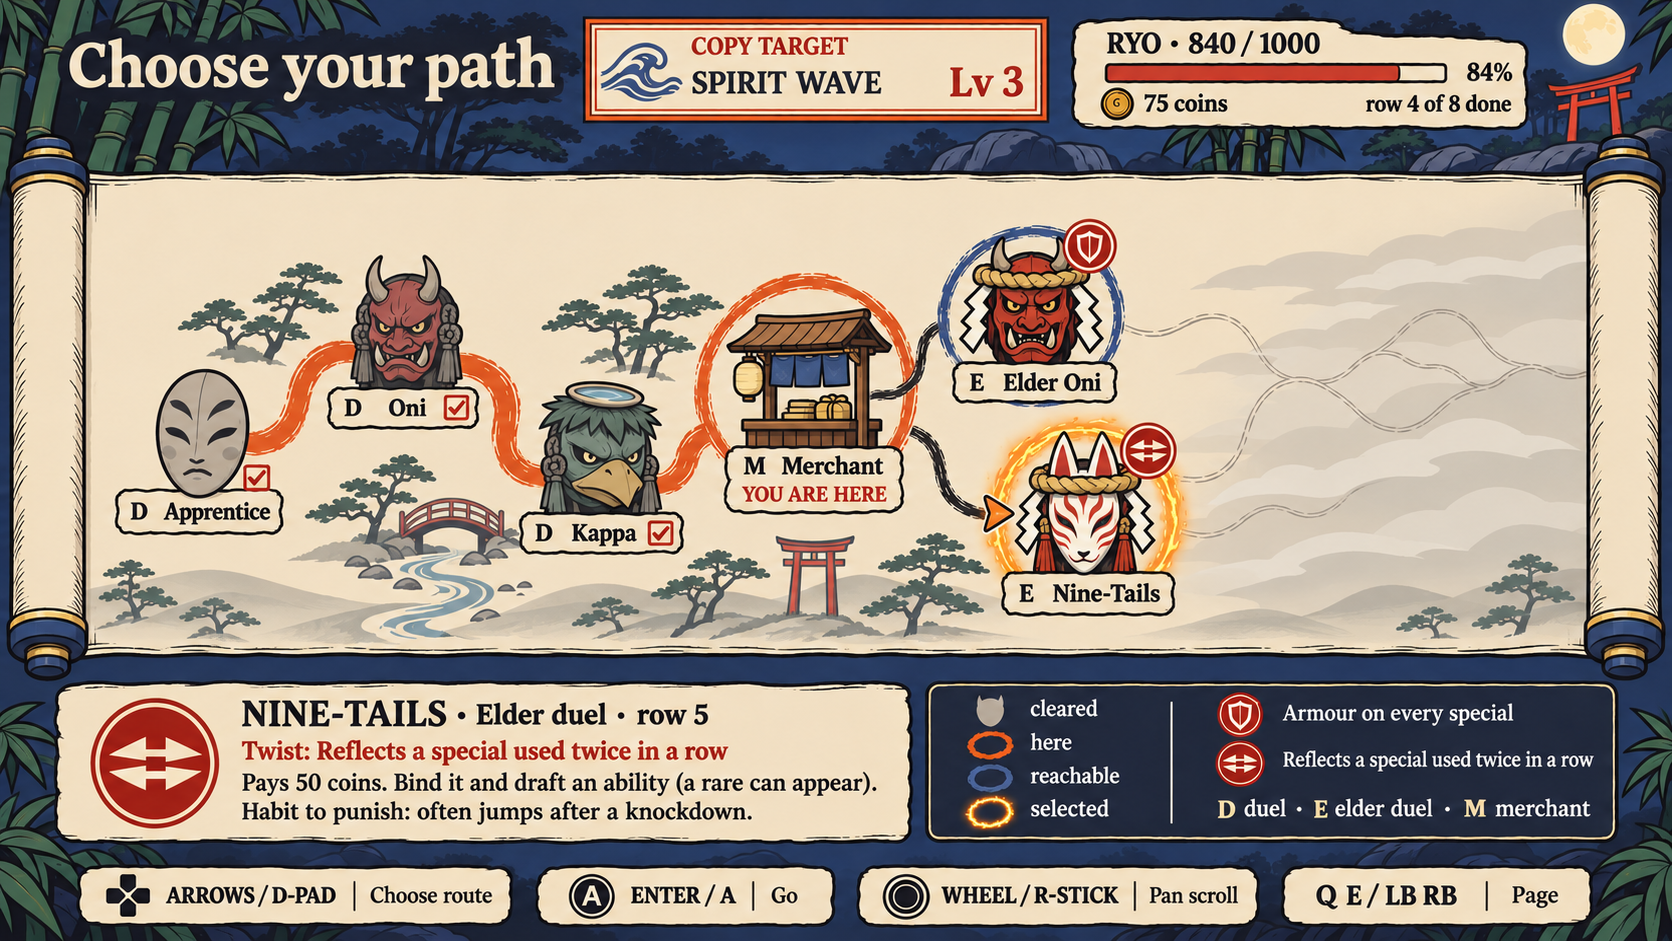
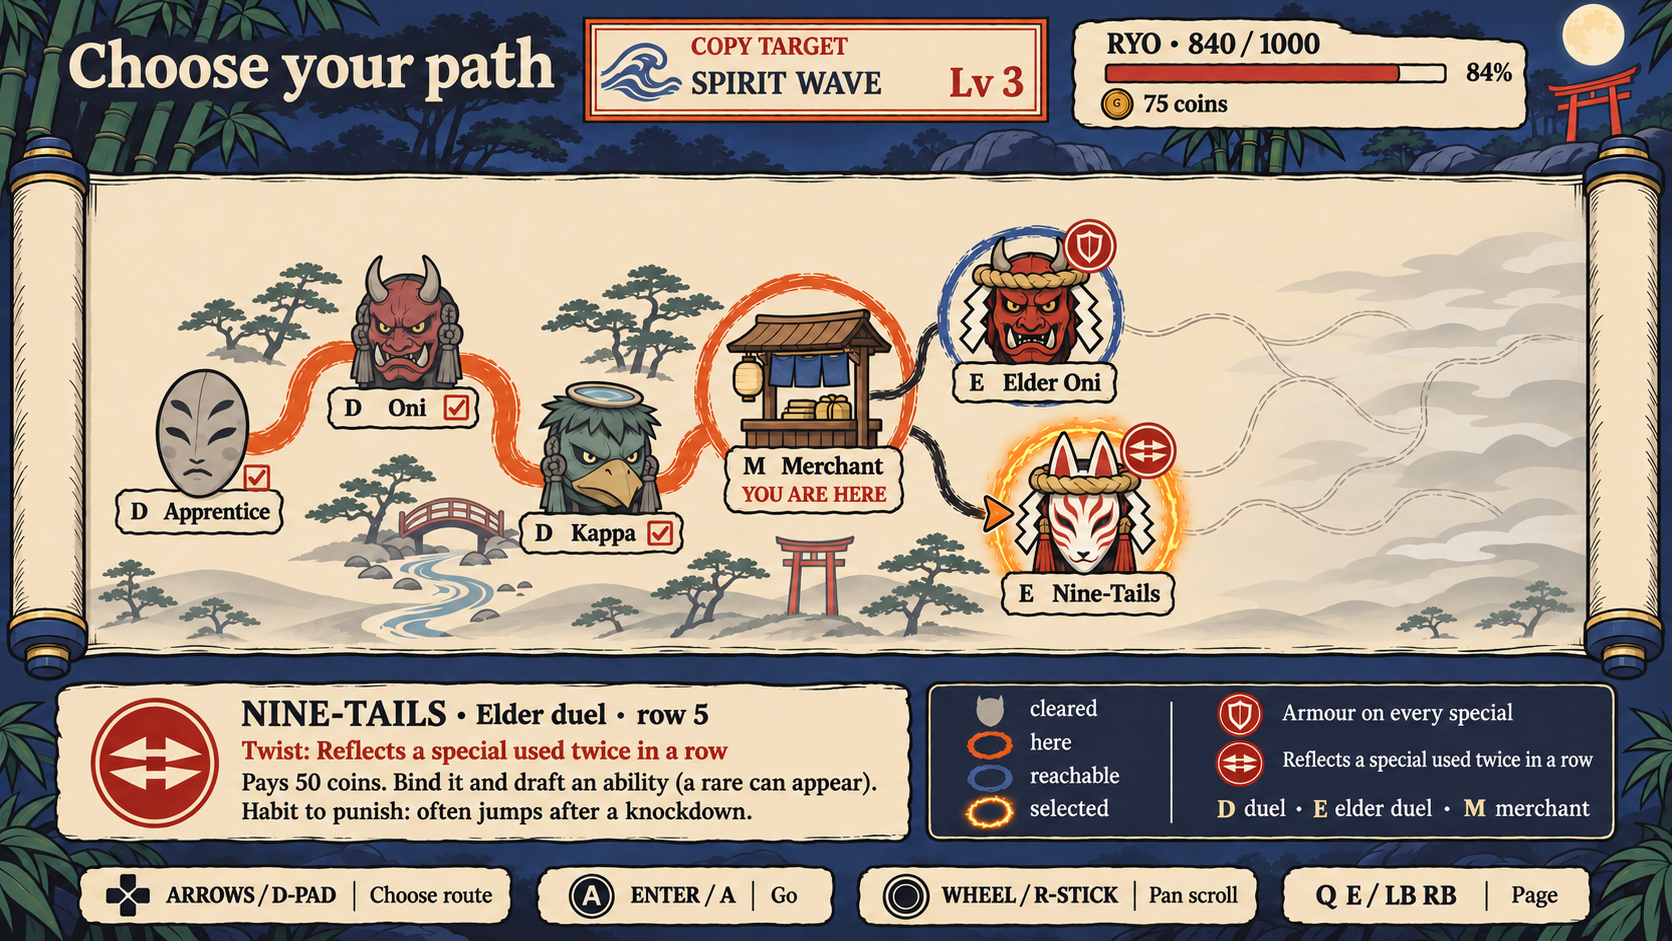
YOK-109-map-astra-v2: take 3 (no row count in Ryo's panel; take 1's trailing mist is the build reference)

diff --git a/docs/design/screens/astra-brief-map-v2.md b/docs/design/screens/astra-brief-map-v2.md
@@ -120,4 +120,46 @@ One take, `gpt-6-astra` via `codex exec`, with take 1, the title scroll and the 
 
 | ID | Output | Verdict | Notes |
 |---|---|---|---|
-| MAP2 take 2 | [map-v2-take2.png](astra/map-v2-take2.png), copied to [map.png](map.png) | Accept as the map target | No row headings. The heading is in the kit's bold serif. Elder Oni is the row-2 Oni mask plus the rope, streamers and shield seal; Nine-Tails is the title fox mask plus the same rope and the reflect seal. A wide mist bank (x70–97) covers the routes ahead, with sketched lines branching and crossing under it and nothing else in it. Miss: the sketched lines only suggest branching and do not show the real 2→2→2→1 shape exactly; the build draws them from the route data (AM19), so this does not reach the game. Cleared masks still keep their colour, marked by the red tick. |
+| MAP2 take 2 | [map-v2-take2.png](astra/map-v2-take2.png) | Superseded by take 3 (the designer preferred take 1's mist) | No row headings. The heading is in the kit's bold serif. Elder Oni is the row-2 Oni mask plus the rope, streamers and shield seal; Nine-Tails is the title fox mask plus the same rope and the reflect seal. A wide mist bank (x70–97) covers the routes ahead, with sketched lines branching and crossing under it and nothing else in it. Miss: the sketched lines only suggest branching and do not show the real 2→2→2→1 shape exactly; the build draws them from the route data (AM19), so this does not reach the game. Cleared masks still keep their colour, marked by the red tick. |
+
+## Take 3 (2026-11-09)
+
+The designer's review of take 2: keep take 1's trailing mist (wisps at the right edge, not a wide bank), and drop the row count ("row 4 of 8 done") from Ryo's status panel. Everything else as take 2.
+
+### Exact Astra prompt (MAP2, take 3)
+
+```text
+Stylised toon-shaded game art, flat cel colour in 2-3 tone steps, clean confident ink-brush outline of even weight, muted ukiyo-e colour palette, matte surfaces, soft even lighting with no cast shadows, no photographic or painterly texture, no gloss, no baked ambient occlusion, simple readable shapes. Use case: ui-mockup. One full-bleed 1672 x 941 landscape screen concept (nominal 16:9), opaque PNG. Match the attached title screen's art hand and the existing paper-talisman screen kit: bold serif body text, brush headings only, flat matte paper, restrained ink outlines. Palette: indigo #2D3A5E, ink #1D1B21, persimmon #D8632C, rice paper #F1E8D4, pine #34483B, fur white #FBF6EC, foxfire #F2A23A, shrine red #B5332B, brass #B08A48, wood dark #4A3425, wood mid #7A5535. Positions are percentages of the full canvas. Exact English lettering is required; no filler text. Tanuki is NEVER drawn, including portrait, silhouette, animal, mask or disguise. Kitsune appears only as her white-and-red fox mask; no face. Avoid photorealism, PBR, gloss, painterly noise, grain, neon, cast shadows, particles, extra UI, real kanji, watermark, logo, signature, franchise or artist references.
+
+Screen: the run map of a roguelite, mid-run. Night bamboo valley backdrop (pale moon, red torii, bamboo) shows only above and below the scroll.
+
+TOP BAR y3-13: top-left heading "Choose your path" set large in the same bold serif typeface as the body text, rice-paper colour, on the night backdrop; not brush script, not handwritten. Top-centre rice-paper chip with double persimmon border and a small blue wave icon: "COPY TARGET" above "SPIRIT WAVE", "Lv 3" on the right. Top-right rice-paper status: "RYO · 840 / 1000", red health bar 84% full, "75 coins". Nothing else in that panel: no row count, no progress text.
+
+THE SCROLL y15-80, x1-99: one long horizontal handscroll drawn exactly like the attached rolled scroll: plain cream rice paper with a thin black ink outline and faint edge lines, a round wooden roller standing at each end (left roller x1-3, right roller x97-99) with indigo end caps and thin brass rings, paper wound around them. No silk border, no green mount, no seams. Across the bottom third of the paper, very soft grey sumi-wash hills and a few sketched pines, low contrast. No row labels or headings anywhere on the paper.
+
+NODES are illustrated objects sitting on the paper, each about 9% wide, every mask the same size, with a small torn rice-paper name tag under it (bold serif name, tiny type letter at the tag's left). Heights are staggered, never in a line:
+- Row 1 x8 y58: plain unpainted pale-wood practice mask with simple ink brows; tag "D  Apprentice". Cleared.
+- Row 2 x21 y36: red horned Oni mask exactly as on the title screen; tag "D  Oni". Cleared.
+- Row 3 x34 y62: green beaked Kappa mask with the water dish on its head, as on the title screen; tag "D  Kappa". Cleared.
+- Row 4 x47 y40: small wooden market stand: plank counter on two posts, little shingled roof, short indigo noren cloth, a paper lantern hanging from the roof corner, a few wrapped goods on the counter; tag "M  Merchant" and under it persimmon "YOU ARE HERE". Ringed by a loose persimmon brush circle.
+- Row 5 x60 y28: the very same red horned Oni mask as row 2, identical design, colours and size, with only a twisted straw rope and white zigzag paper streamers draped across its top added; small round red seal with a white shield at its upper right; tag "E  Elder Oni". Reachable: thin indigo brush ring.
+- Row 5 x62 y62: the white-and-red fox mask exactly as on the title screen, same size as the other masks, no brass trim, with only the same straw rope and white zigzag paper streamers added; small round red seal with white opposing arrows at its upper right; tag "E  Nine-Tails". Selected: glowing foxfire-and-brass brush halo and a small persimmon triangle pointing at it from the left.
+Cleared masks are drained to grey ink wash on the paper, with a small red tick stamp; still readable.
+
+ROUTES are winding brush paths, never straight: they curve in S-bends and switchbacks, loop around a cluster of pines, dip under a tiny arched footbridge over a thin stream between rows 2 and 3, and pass a small sketched torii near row 4. The walked route Apprentice -> Oni -> Kappa -> Merchant is one thick persimmon dry-brush stroke with tapered ends and bristle streaks. From the Merchant stand two thinner black sumi brush paths wind to the two row-5 masks. The elder masks differ from ordinary masks only by the rope, streamers and seal.
+
+TRAILING MIST at the right end, exactly as in the second attached image (the earlier take): from each row-5 mask the routes carry on to the right as faint thin-ink and pencil sketch lines, a few branching and crossing trails, broken and unfinished, that drift into soft trailing wisps of white-grey mist along the right edge of the paper (about x80 to the right roller) and fade out there. The paper between the row-5 masks and the mist stays plain and light. Nothing in the mist or on the trails: no masks, dots, circles, tags, icons or labels.
+
+BOTTOM y82-93 left x3-60: rice-paper focus panel, red seal with white opposing arrows at the left: "NINE-TAILS · Elder duel · row 5"; red "Twist: Reflects a special used twice in a row"; "Pays 50 coins. Bind it and draft an ability (a rare can appear)."; "Habit to punish: often jumps after a knockdown."
+Bottom right x62-97 y82-93: dark indigo legend: small grey mask "cleared", persimmon ring "here", indigo ring "reachable", foxfire halo "selected"; red shield seal "Armour on every special"; red opposing-arrows seal "Reflects a special used twice in a row"; "D duel · E elder duel · M merchant".
+FOOTER y95-99 key chips: "ARROWS / D-PAD" "Choose route", "ENTER / A" "Go", "WHEEL / R-STICK" "Pan scroll", "Q E / LB RB" "Page".
+No square cards anywhere, no extra nodes, no boss, no prices, no prototype annotations.
+```
+
+### Take 3 run record (2026-11-09)
+
+One take, `gpt-6-astra` via `codex exec`, with take 2 (composition), take 1 (mist) and the title screen attached. 1672×941, opaque.
+
+| ID | Output | Verdict | Notes |
+|---|---|---|---|
+| MAP2 take 3 | [map-v2-take3.png](astra/map-v2-take3.png), copied to [map.png](map.png) | Accept as the map target; **mist reference is take 1** | Ryo's panel now reads only "RYO · 840 / 1000", the health bar and "75 coins". Everything else matches take 2. Miss: the mist is lighter but still almost as wide as take 2's bank, not take 1's narrow trailing wisps. The game draws the mist in code (`MapScroll`), so the build follows [take 1](astra/map-v2-take1.png) for the mist: wisps along the right edge of the paper (about x83–97 of the screen), with the sketched trails drawn from the real routes (AM19) fading into them. |

diff --git a/docs/decision-log.md b/docs/decision-log.md
@@ -237,3 +237,4 @@ Moved to Linear on 2026-10-21 (YOK-188): the live list is YOK-189. The last repo
 - 2026-10-25 YOK-208 bamboo grove lit lanterns (designer: "1. overlap , add fixes"): Lantern0 moved in front of Bamboo3 to head the left path row; its near-total overlap of PathLanternL0 at the left-corner framing is accepted; LanternLine clamps NearScale and skips lanterns at or behind the backdrop, so the two open Test Breaker probes are fixed rather than left advisory.
 - 2026-11-09 YOK-109 map v2 (designer: "lets do an astra pass on the map"): the map scroll follows the title screen's reason scroll; upcoming routes are sketched paths fading into mist, with no nodes in the mist; yokai nodes are masks, the merchant a wooden stand; routes wind. One Astra take (`gpt-6-astra` via Codex), brief `docs/design/screens/astra-brief-map-v2.md`. Mist sketches change AM18's "blank paper"; whether they follow the real route graph is open.
 - 2026-11-09 YOK-109 map v2 take 1 reviewed (designer): the mist sketches follow the real routes (AM19); the Apprentice's plain wooden practice mask is approved. Retake approved with: no row headings; mist covers the routes ahead; a different heading font top left; elder masks are the normal yokai masks plus the rope, streamers and twist seal.
+- 2026-11-09 YOK-109 map v2 take 2 reviewed (designer): keep take 1's trailing mist (wisps at the right edge, not a wide bank) and drop the row count ("row N of 8 done") from Ryo's status panel on the map. Take 3 approved and run; it becomes `map.png`, with take 1 as the mist reference for the build.

diff --git a/docs/design/screens/README.md b/docs/design/screens/README.md
@@ -16,7 +16,7 @@ The target look for every screen: one 16:9 concept per screen (1672 x 941). The 
 | `story-card.png` | Story card (binding line) | `story_card.tscn` |
 | `defeat.png` | Lose screen | `lose_screen.tscn` |
 | `demo-complete.png` | Demo complete | `demo_complete.tscn` |
-| `map.png` | Run map v2: title-style handscroll, mask nodes, merchant stand, winding routes, routes ahead sketched in mist (YOK-109, AM19; brief `astra-brief-map-v2.md`, take 2) | `map_screen.tscn`, still the v1 build: to be rebuilt to this concept |
+| `map.png` | Run map v2: title-style handscroll, mask nodes, merchant stand, winding routes, routes ahead sketched in mist (YOK-109, AM19; brief `astra-brief-map-v2.md`, take 3; mist as in take 1) | `map_screen.tscn`, still the v1 build: to be rebuilt to this concept |
 | `hud-copy-target.png` | Fight HUD in the Tanuki fight, locked copy talisman (AM6) | `hud.tscn` |
 | `hud-copy-target-states.png` | Copy-target talisman, states A–F | `CopyTalisman` |
 | `elder-twist-card.png` | Elder-twist intro card and first-meeting callout | `story_card.tscn` via `FightScene.Flow.cs` |
